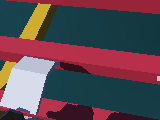
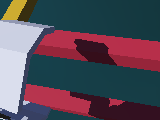
my_cover

diff --git a/python_scripts/Project_config.py b/python_scripts/Project_config.py
@@ -16,37 +16,37 @@ MEMORY_CAPACITY = 100000
 
 # 路径配置
 path_list = {
-    'resetFlag': 'D:/project_Spatiotemporal_attention_mechanism/python_scripts/resetFlag.txt',
-    'resetFlag1': 'D:/project_Spatiotemporal_attention_mechanism/python_scripts/resetFlag1.txt',
-    'memory_graph': 'D:/project_Spatiotemporal_attention_mechanism/python_scripts/GNN/memory/memory_graph.pkl',
-    'photo_path_real': 'D:/project_Spatiotemporal_attention_mechanism/python_scripts',
-    'photo_path': 'D:/project_Spatiotemporal_attention_mechanism/python_scripts/photo',
+    'resetFlag': 'E:/github_clone/github_clone02/Spatiotemporal_attention_mechanism/python_scripts/resetFlag.txt',
+    'resetFlag1': 'E:/github_clone/github_clone02/Spatiotemporal_attention_mechanism/python_scripts/resetFlag1.txt',
+    'memory_graph': 'E:/github_clone/github_clone02/Spatiotemporal_attention_mechanism/python_scripts/GNN/memory/memory_graph.pkl',
+    'photo_path_real': 'E:/github_clone/github_clone02/Spatiotemporal_attention_mechanism/python_scripts',
+    'photo_path': 'E:/github_clone/github_clone02/Spatiotemporal_attention_mechanism/python_scripts/photo',
      
     #DQN 
-    'model_path_catch_DQN': 'D:/project_Spatiotemporal_attention_mechanism/python_scripts/DQN/checkpoint/catch',
-    'model_path_tai_DQN': 'D:/project_Spatiotemporal_attention_mechanism/python_scripts/DQN/checkpoint/tai',
-    'shu_ju_path_DQN':'D:/project_Spatiotemporal_attention_mechanism/python_scripts/DQN/shu_ju.txt',
-    'gps_path_DQN':'D:/project_Spatiotemporal_attention_mechanism/python_scripts/DQN/gps.txt',
-    'catch_log_path_DQN':'D:/project_Spatiotemporal_attention_mechanism/python_scripts/DQN/log/catch_log/',
-    'tai_log_path_DQN':'D:/project_Spatiotemporal_attention_mechanism/python_scripts/DQN/log/tai_log/',
+    'model_path_catch_DQN': 'E:/github_clone/github_clone02/Spatiotemporal_attention_mechanism/python_scripts/DQN/checkpoint/catch',
+    'model_path_tai_DQN': 'E:/github_clone/github_clone02/Spatiotemporal_attention_mechanism/python_scripts/DQN/checkpoint/tai',
+    'shu_ju_path_DQN':'E:/github_clone/github_clone02/Spatiotemporal_attention_mechanism/python_scripts/DQN/shu_ju.txt',
+    'gps_path_DQN':'E:/github_clone/github_clone02/Spatiotemporal_attention_mechanism/python_scripts/DQN/gps.txt',
+    'catch_log_path_DQN':'E:/github_clone/github_clone02/Spatiotemporal_attention_mechanism/python_scripts/DQN/log/catch_log/',
+    'tai_log_path_DQN':'E:/github_clone/github_clone02/Spatiotemporal_attention_mechanism/python_scripts/DQN/log/tai_log/',
 
     #PPO
-    'model_path_catch_PPO': 'D:/project_Spatiotemporal_attention_mechanism/python_scripts/PPO/checkpoint/catch',
-    'model_path_tai_PPO': 'D:/project_Spatiotemporal_attention_mechanism/python_scripts/PPO/checkpoint/tai',
-    'shu_ju_path_PPO':'D:/project_Spatiotemporal_attention_mechanism/python_scripts/PPO/shu_ju.txt',
-    'gps_path_PPO':'D:/project_Spatiotemporal_attention_mechanism/python_scripts/PPO/gps.txt',
-    'catch_log_path_PPO':'D:/project_Spatiotemporal_attention_mechanism/python_scripts/PPO/log/catch_log/',
-    'tai_log_path_PPO':'D:/project_Spatiotemporal_attention_mechanism/python_scripts/PPO/log/tai_log/',
+    'model_path_catch_PPO': 'E:/github_clone/github_clone02/Spatiotemporal_attention_mechanism/python_scripts/PPO/checkpoint/catch',
+    'model_path_tai_PPO': 'E:/github_clone/github_clone02/Spatiotemporal_attention_mechanism/python_scripts/PPO/checkpoint/tai',
+    'shu_ju_path_PPO':'E:/github_clone/github_clone02/Spatiotemporal_attention_mechanism/python_scripts/PPO/shu_ju.txt',
+    'gps_path_PPO':'E:/github_clone/github_clone02/Spatiotemporal_attention_mechanism/python_scripts/PPO/gps.txt',
+    'catch_log_path_PPO':'E:/github_clone/github_clone02/Spatiotemporal_attention_mechanism/python_scripts/PPO/log/catch_log/',
+    'tai_log_path_PPO':'E:/github_clone/github_clone02/Spatiotemporal_attention_mechanism/python_scripts/PPO/log/tai_log/',
 
     #SAC
-    'model_path_catch_SAC': 'D:/project_Spatiotemporal_attention_mechanism/python_scripts/SAC/checkpoint/catch',
-    'model_path_tai_SAC': 'D:/project_Spatiotemporal_attention_mechanism/python_scripts/SAC/checkpoint/tai',
-    'shu_ju_path_SAC':'D:/project_Spatiotemporal_attention_mechanism/python_scripts/SAC/shu_ju.txt',
-    'gps_path_SAC':'D:/project_Spatiotemporal_attention_mechanism/python_scripts/SAC/gps.txt',
-    'catch_log_path_SAC':'D:/project_Spatiotemporal_attention_mechanism/python_scripts/SAC/log/catch_log/',
-    'tai_log_path_SAC':'D:/project_Spatiotemporal_attention_mechanism/python_scripts/SAC/log/tai_log/'
-
+    'model_path_catch_SAC': 'E:/github_clone/github_clone02/Spatiotemporal_attention_mechanism/python_scripts/SAC/checkpoint/catch',
+    'model_path_tai_SAC': 'E:/github_clone/github_clone02/Spatiotemporal_attention_mechanism/python_scripts/SAC/checkpoint/tai',
+    'shu_ju_path_SAC':'E:/github_clone/github_clone02/Spatiotemporal_attention_mechanism/python_scripts/SAC/shu_ju.txt',
+    'gps_path_SAC':'E:/github_clone/github_clone02/Spatiotemporal_attention_mechanism/python_scripts/SAC/gps.txt',
+    'catch_log_path_SAC':'E:/github_clone/github_clone02/Spatiotemporal_attention_mechanism/python_scripts/SAC/log/catch_log/',
+    'tai_log_path_SAC':'E:/github_clone/github_clone02/Spatiotemporal_attention_mechanism/python_scripts/SAC/log/tai_log/'
 }
+
 
 gps_goal = [0.2, 0.175]  # 目标位置坐标1
 gps_goal1 = [0.27, 0.225]  # 目标位置坐标2

diff --git a/controllers/new_ti_zi/new_ti_zi.py b/controllers/new_ti_zi/new_ti_zi.py
@@ -1,15 +1,14 @@
 from controller import Supervisor, Node
 import os
-_conda = r"D:\\Anaconda3\\envs\\webots"
-_extra = [
-    _conda,
-    rf"{_conda}\Library\mingw-w64\bin",
-    rf"{_conda}\Library\usr\bin",
-    rf"{_conda}\Library\bin",
-    rf"{_conda}\Scripts",
-    rf"{_conda}\bin",
-]
-os.environ["PATH"] = ";".join(_extra) + ";" + os.environ.get("PATH", "")
+CONDA_PREFIX = r"E:\conda_envs\webots37"
+os.environ["PATH"] = (
+    rf"{CONDA_PREFIX}\Library\bin;"
+    rf"{CONDA_PREFIX}\DLLs;"
+    rf"{CONDA_PREFIX}\Scripts;"
+    rf"{CONDA_PREFIX};"
+    + os.environ.get("PATH", "")
+)
+
 
 import numpy as np
 import operator
@@ -82,14 +81,15 @@ class SupervisorRobot:
         self.robot.step(self.timestep)
         isremove = True
         while True:
-            with open('D:\\compare_project_Spatiotemporal_attention_mechanism\\project_Spatiotemporal_attention_mechanism\\python_scripts\\resetFlag.txt', 'r') as file:
+            with open('E:\\github_clone\\github_clone02\\Spatiotemporal_attention_mechanism\\python_scripts\\resetFlag.txt', 'r') as file:
                 flag = file.read()
                 if flag == '0':
-                    with open('D:\\compare_project_Spatiotemporal_attention_mechanism\\project_Spatiotemporal_attention_mechanism\\python_scripts\\resetFlag.txt', 'r+') as file:
+                    with open('E:\\github_clone\\github_clone02\\Spatiotemporal_attention_mechanism\\python_scripts\\resetFlag.txt', 'r+') as file:
                         file.write('1')
                     self.robot.simulationResetPhysics()
                     self.reset()
             self.robot.step(self.timestep)
+
     
 supervisorRobot = SupervisorRobot()
 supervisorRobot.resetsimulation()

diff --git a/controllers/Train_main/Train_main.py b/controllers/Train_main/Train_main.py
@@ -1,16 +1,15 @@
 import sys
 import os
 # 添加项目路径到系统路径
-_conda = r"D:\\Anaconda3\\envs\\webots"
-_extra = [
-    _conda,
-    rf"{_conda}\Library\mingw-w64\bin",
-    rf"{_conda}\Library\usr\bin",
-    rf"{_conda}\Library\bin",
-    rf"{_conda}\Scripts",
-    rf"{_conda}\bin",
-]
-os.environ["PATH"] = ";".join(_extra) + ";" + os.environ.get("PATH", "")
+CONDA_PREFIX = r"E:\conda_envs\webots37"
+os.environ["PATH"] = (
+    rf"{CONDA_PREFIX}\Library\bin;"
+    rf"{CONDA_PREFIX}\DLLs;"
+    rf"{CONDA_PREFIX}\Scripts;"
+    rf"{CONDA_PREFIX};"
+    + os.environ.get("PATH", "")
+)
+
 
 _CUR_DIR = os.path.dirname(os.path.abspath(__file__))
 _PROJECT_ROOT = os.path.abspath(os.path.join(_CUR_DIR, os.pardir, os.pardir))